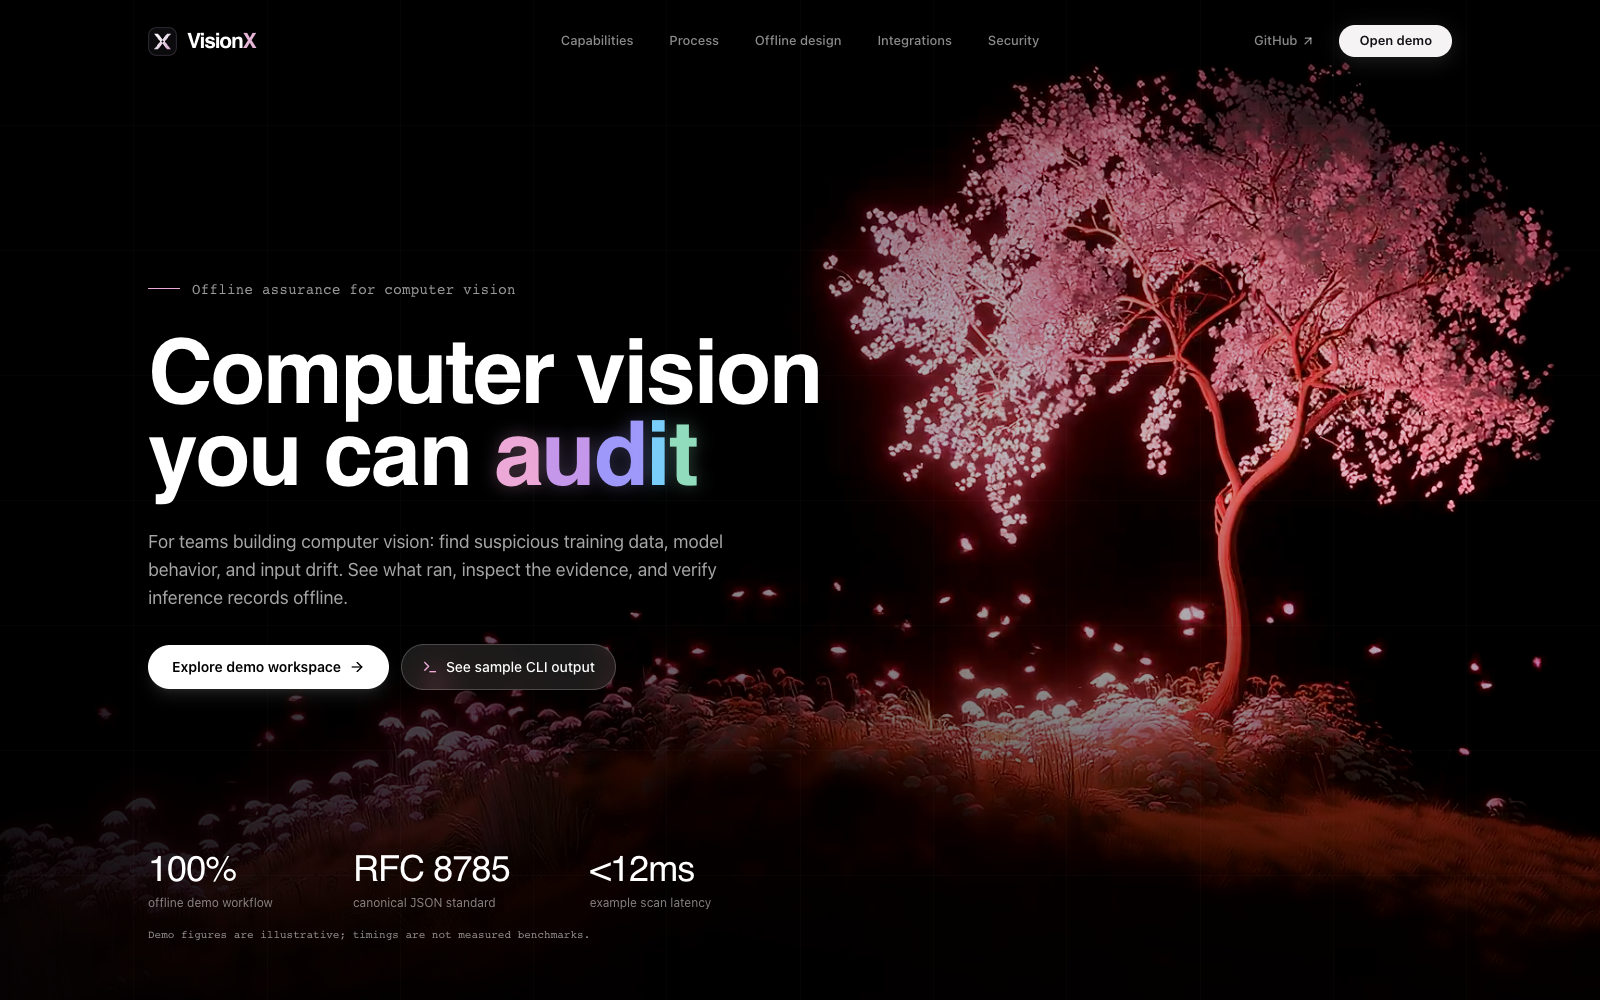
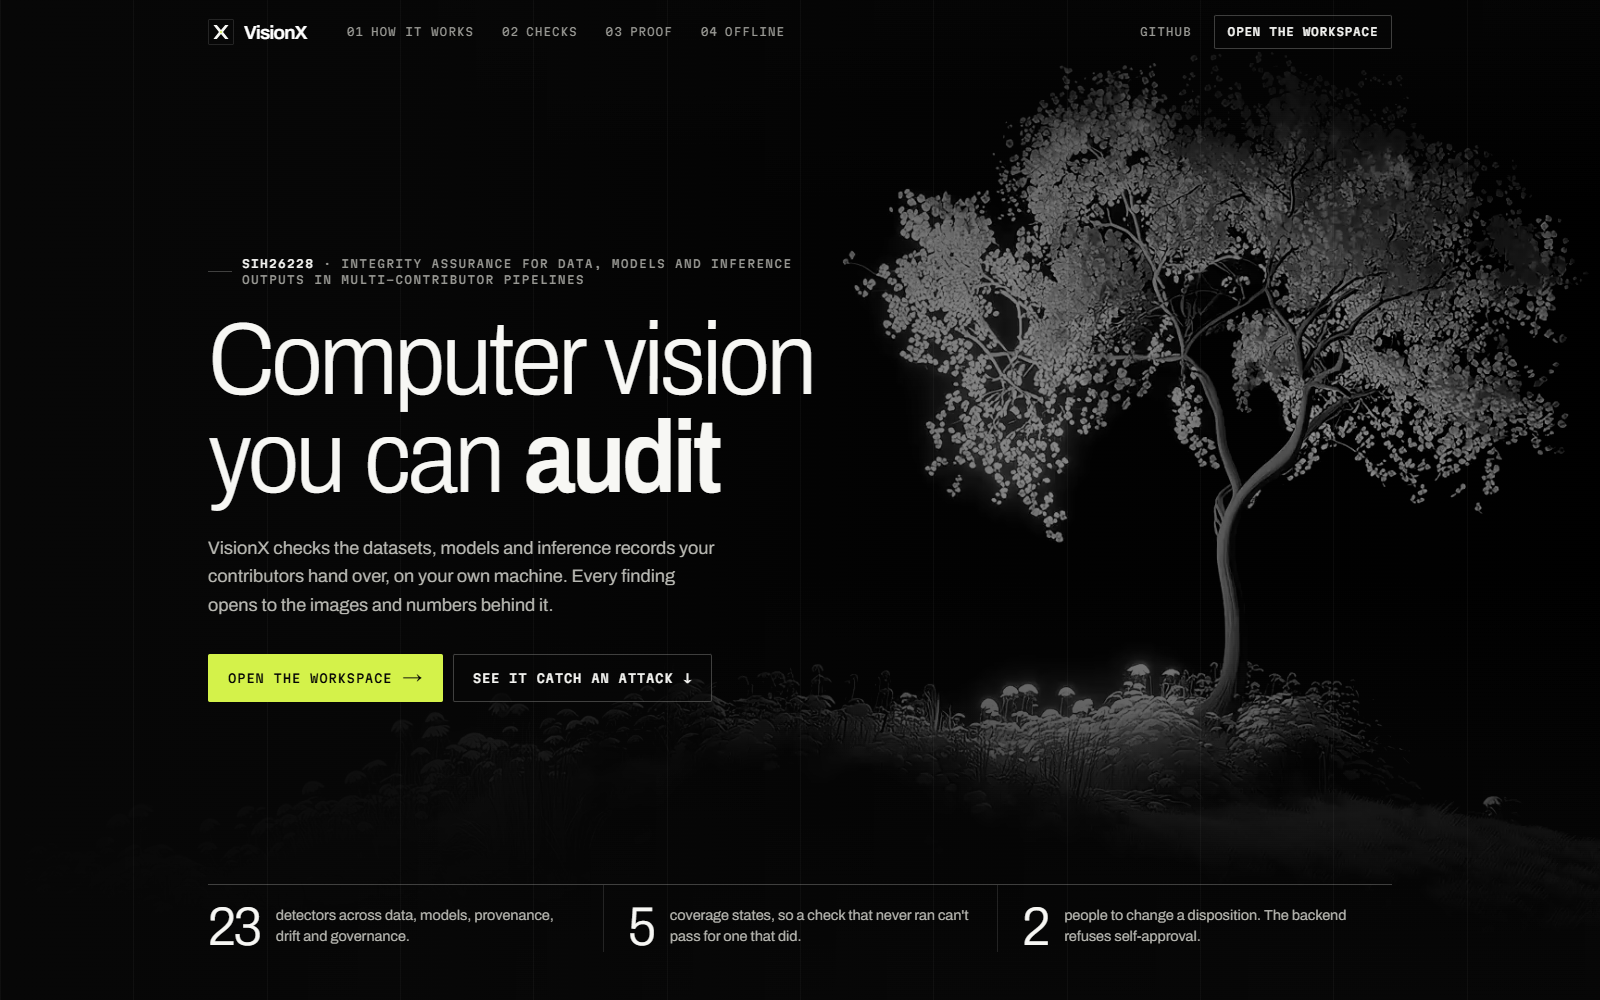
Refresh the README screenshots and captions for Hi-Vis

diff --git a/README.md b/README.md
@@ -21,8 +21,8 @@ Trustworthy Computer Vision Integrity Assurance for Data, Models and Inference O
 </div>
 
 <p align="center">
-  <a href="docs/images/screenshots/landing.png"><img src="docs/images/screenshots/landing.png" alt="VisionX landing page: Computer vision you can audit, against the illuminated tree visual" width="100%" /></a>
-  <br><sub><b>The VisionX experience.</b> Actual frontend capture. Landing-page demo figures are illustrative; measured results appear in <a href="#evaluation-and-reproducibility">Evaluation</a>.</sub>
+  <a href="docs/images/screenshots/landing.png"><img src="docs/images/screenshots/landing.png" alt="VisionX landing page in the Hi-Vis night theme, naming the SIH26228 brief" width="100%" /></a>
+  <br><sub><b>The VisionX experience.</b> Actual frontend capture. Measured results appear in <a href="#evaluation-and-reproducibility">Evaluation</a>.</sub>
 </p>
 
 ## VisionX in one minute
@@ -67,26 +67,26 @@ A contributor has changed labels in a training dataset. The **Targeted Label Fli
 ### 01 · What needs attention?
 
 <p align="center">
-  <a href="docs/images/screenshots/workspace-overview.png"><img src="docs/images/screenshots/workspace-overview.png" alt="VisionX assessment overview: nine findings, a review disposition, detector execution, and explicit coverage states" width="100%" /></a>
-  <br><sub><b>Assessment overview.</b> Findings, detector outcomes, and assessment gaps share one review surface. This generated scenario produced nine findings and a REVIEW disposition.</sub>
+  <a href="docs/images/screenshots/workspace-overview.png"><img src="docs/images/screenshots/workspace-overview.png" alt="VisionX assessment overview: ten findings, a review disposition, detector execution, and explicit coverage states" width="100%" /></a>
+  <br><sub><b>Assessment overview.</b> Findings, detector outcomes, and assessment gaps share one review surface. This generated scenario produced ten findings and a REVIEW disposition.</sub>
 </p>
 
 <table>
 <tr>
 <td width="50%" valign="top">
 <h3>02 · What supports the finding?</h3>
-<a href="docs/images/screenshots/finding-evidence.png"><img src="docs/images/screenshots/finding-evidence.png" alt="Dark-theme findings view with the label-consistency evidence inspector open" width="100%" /></a>
+<a href="docs/images/screenshots/finding-evidence.png"><img src="docs/images/screenshots/finding-evidence.png" alt="Findings view with the systematic-mislabel inspector open, showing the flagged images" width="100%" /></a>
 <br><sub><b>Evidence inspector.</b> Read the observation, detector, affected sample, and supporting evidence alongside the finding.</sub>
 </td>
 <td width="50%" valign="top">
 <h3>03 · What remains unknown?</h3>
-<a href="docs/images/screenshots/coverage-matrix.png"><img src="docs/images/screenshots/coverage-matrix.png" alt="Light-theme coverage matrix showing assessed and partially assessed attack classes" width="100%" /></a>
+<a href="docs/images/screenshots/coverage-matrix.png"><img src="docs/images/screenshots/coverage-matrix.png" alt="Coverage matrix showing assessed, partially assessed and unavailable attack classes" width="100%" /></a>
 <br><sub><b>Coverage matrix.</b> Inspect the exact assessment boundary, including checks that need more access or evidence.</sub>
 </td>
 </tr>
 </table>
 
-<sub>Real frontend screenshots, captured with a generated <code>selftest</code> report opened locally through <b>Open report</b>. They show local review, not an authenticated backend session. Select an image for full resolution. <a href="docs/images/screenshots/README.md">Capture notes →</a></sub>
+<sub>Real frontend screenshots from an authenticated session on the local API, after running the Targeted Label Flip Attack scenario with the <code>selftest</code> profile. Select an image for full resolution. <a href="docs/images/screenshots/README.md">Capture notes →</a></sub>
 
 <details>
 <summary><strong>How to interpret the five coverage states</strong></summary>
@@ -471,9 +471,10 @@ The people behind VisionX, with contributions drawn from this repository's Git h
 <h3>Kunal Kumar</h3>
 <a href="https://github.com/kunalKumar-13">@kunalKumar-13</a><br><br>
 <img src="docs/images/navigation/build-ship.svg" alt="Demo and platform readiness" width="230" /><br><br>
-<p>Made the evidence visible and the workspace ready to run and present.</p>
+<p>Made the evidence visible, gave the product one look, and got it ready to run and present.</p>
 <p align="left"><b>Evidence in the inspector:</b> Flagged images from the local evidence store, confusion matrices as tables, and statistics as labelled values.</p>
 <p align="left"><b>Windows support:</b> Portable ledger locking and memory probing, a model sandbox that works over Windows pipes and reports limits it cannot apply, and explicit UTF-8 for every report and manifest.</p>
+<p align="left"><b>Hi-Vis design:</b> One night and paper system with a single lime accent across the landing page and the workspace; a shorter landing page whose pipeline tree plays a real detection.</p>
 <p align="left"><b>Demo:</b> Scenario summaries, workspace fixes, and the recorded walkthrough.</p>
 </td>
 </tr>

diff --git a/docs/images/screenshots/README.md b/docs/images/screenshots/README.md
@@ -1,16 +1,16 @@
 # Frontend screenshot provenance
 
-These are browser screenshots of the VisionX frontend in this repository, captured at **1600 × 1000** in Chrome on **30 September 2026**, using the production frontend built with `npm run build -- --webpack`. They are not generated mockups. Reduced motion was enabled; no product text, findings, or metrics were replaced for the captures.
+These are browser screenshots of the VisionX frontend in this repository, captured at **1600 × 1000** in Chromium on **30 September 2026**, using the production frontend (`npm run build`, then `next start`). They are not generated mockups. Reduced motion was enabled; no product text, findings, or metrics were replaced for the captures.
 
 | File | View |
 | --- | --- |
-| `landing.png` | Landing page with the bundled hero video playing |
-| `workspace-overview.png` | Assessment overview, light theme |
-| `finding-evidence.png` | Findings and label-consistency inspector, dark theme |
-| `coverage-matrix.png` | Coverage matrix, light theme |
+| `landing.png` | Landing page hero, Hi-Vis night theme |
+| `workspace-overview.png` | Assessment overview, night theme |
+| `finding-evidence.png` | Findings with the systematic-mislabel inspector open, showing the flagged images |
+| `coverage-matrix.png` | Coverage matrix, night theme |
 
-The workspace images use an actual assessment produced by `run_scenario(load_scenario("label_flip_targeted"), ..., profile="selftest")`, exported with `write_report`, and opened through the workspace's local report import. The scenario completed with `detector_success`, 9 findings, and a `REVIEW` disposition. Python 3.14 was used for this dataset-only capture run; PyTorch was not installed. Unavailable checks remain visible in the report.
+The workspace images show an authenticated backend session (`analyst01`) on the local API. The assessment is the Targeted Label Flip Attack scenario, run from Attack Lab with the `selftest` profile. It completed with `detector_success`, 10 findings, and a `REVIEW` disposition, using the weight-free `classical-v2` descriptor. Unavailable checks remain visible in the coverage view.
 
-The data is synthetic and comes from [the shipped scenario](../../../scenarios/label_flip.yaml). The images demonstrate local report review, not an authenticated backend session. They are separate from the checked-in full benchmark run. Figures in the landing page's demo strip are illustrative, as labeled in the interface.
+The data is synthetic and comes from [the shipped scenario](../../../scenarios/label_flip.yaml). The images are separate from the checked-in full benchmark run.
 
-To refresh the workspace captures, run the same scenario with a disposable workspace, export its `scan_result` through `visionsentinel.reporting.write_report`, open the resulting `report.json` from `/workspace`, and capture the named views after notifications disappear. Use the production frontend build to avoid development overlays. Keep the images and their README captions in sync when the interface changes.
+To refresh the captures, start the API and the production frontend, run the same scenario from Attack Lab, and capture the named views after notifications disappear. Keep the images and their README captions in sync when the interface changes.
